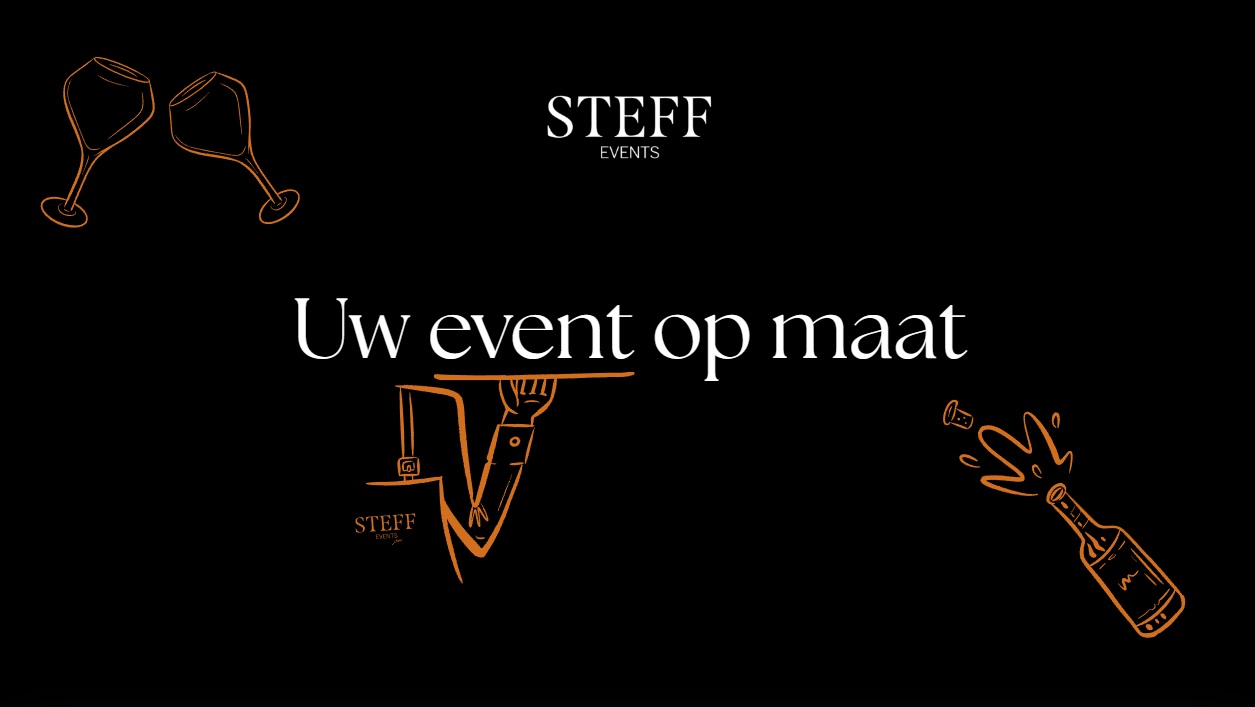
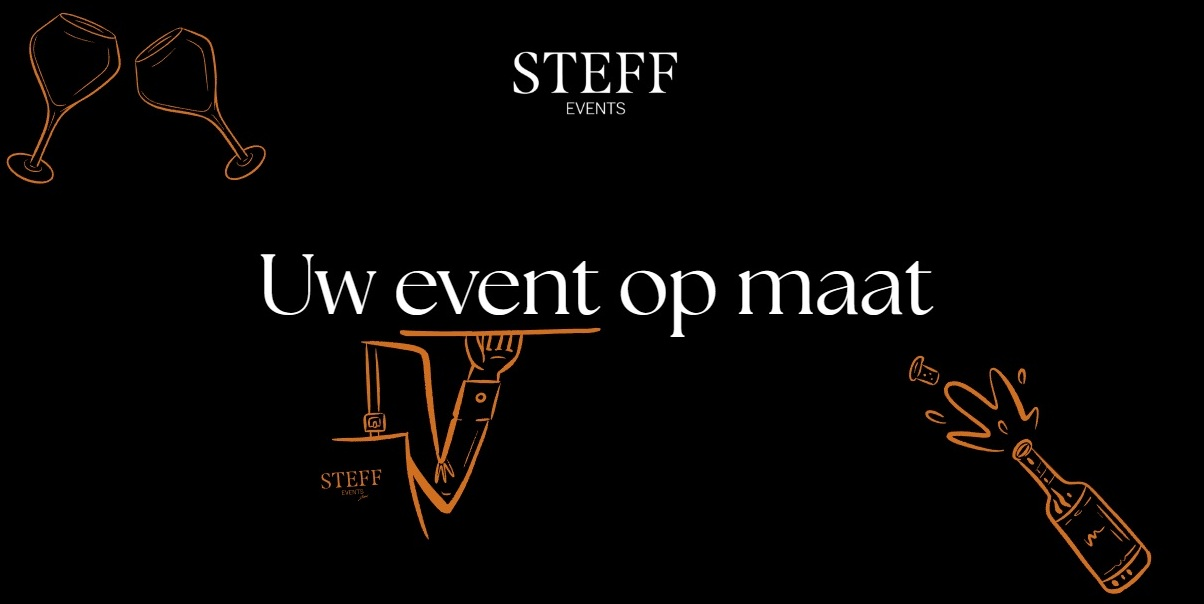
new

diff --git a/index.html b/index.html
@@ -14,7 +14,9 @@
 <body>
 
     <div class="d-flex justify-content-center align-items-center" id="header">
-        <img src="/Images/STEFF_logo-wit.png" alt="new-img" class="img-fluid w-50">
+        <div class="card" id="card-big">
+            <img src="Images/Header-img.jpg" alt="Steff events">
+        </div>
     </div>
 
 
